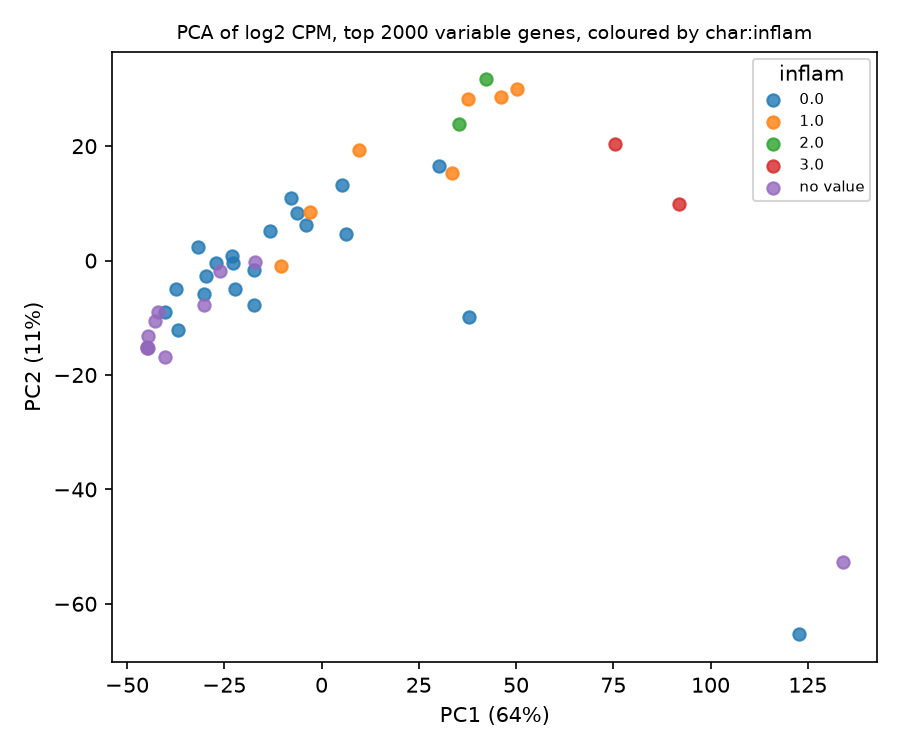
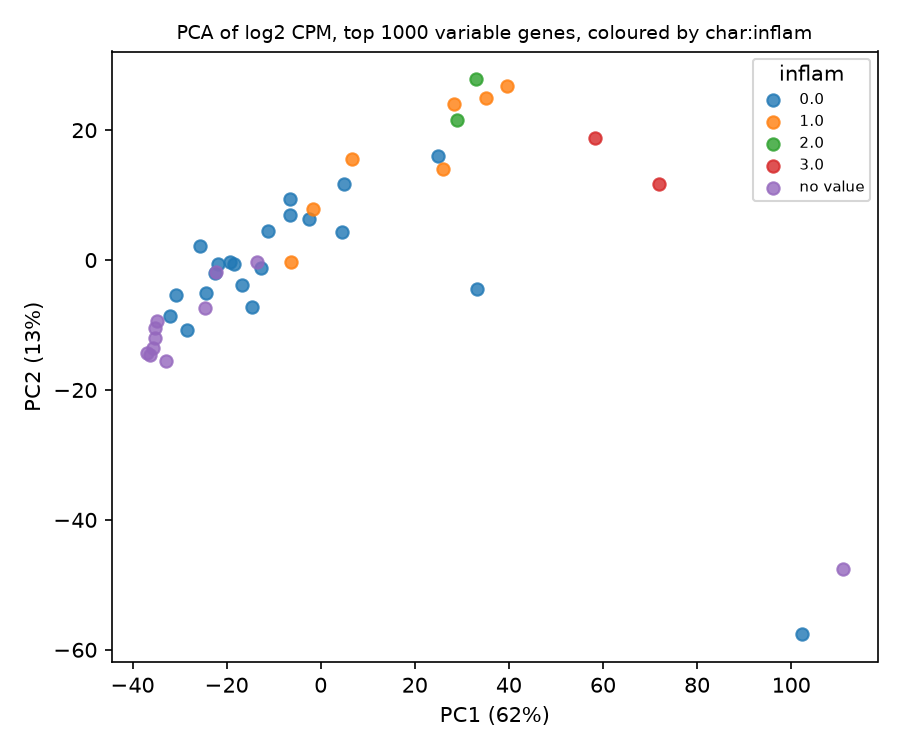
Results for feature selection top 1000

diff --git a/practical/scripts/step2_qc_exploration.py b/practical/scripts/step2_qc_exploration.py
@@ -112,7 +112,7 @@ def main() -> None:
     # log2 CPM and PCA on the most variable genes.
     cpm = filtered / filtered.sum(axis=0) * 1e6
     logcpm = np.log2(cpm + 1)
-    n_top = 2000  # TODO(student): does the choice of n_top change the picture?
+    n_top = 1000  # TODO(student): does the choice of n_top change the picture?
     top = logcpm.var(axis=1).sort_values(ascending=False).index[:n_top]
     x = logcpm.loc[top].T
     x = x - x.mean(axis=0)
